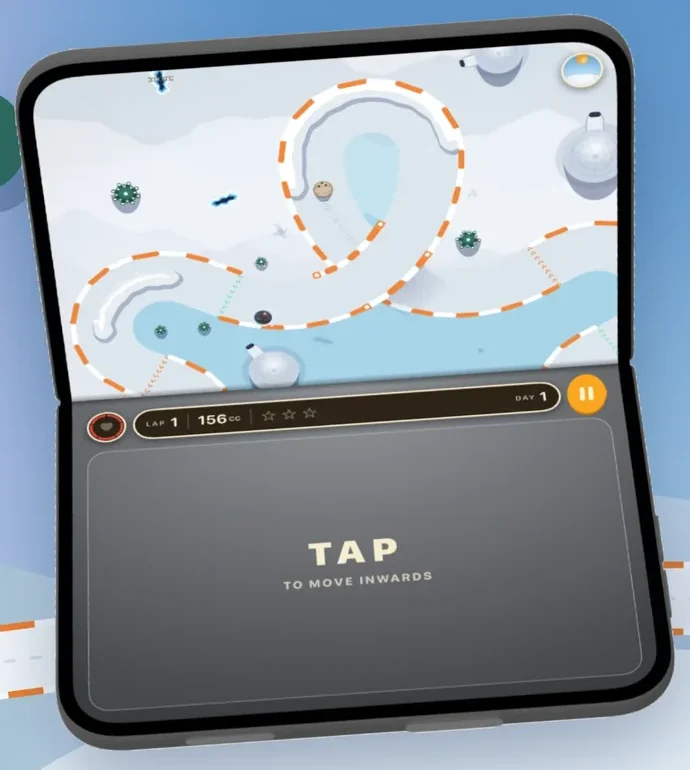
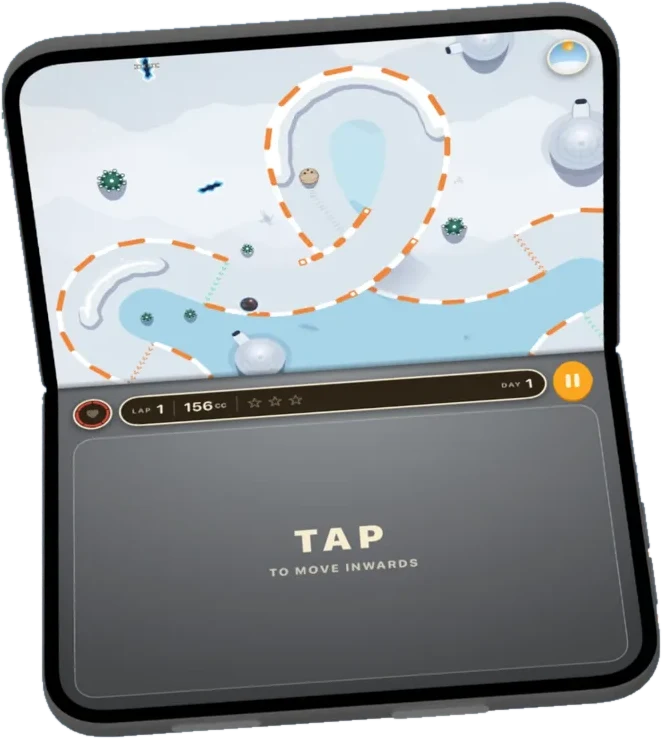
Home: seated-mode iPhone Duo cut out of its background
The half-folded phone now has a transparent background with a soft drop
shadow, so it sits on the page like the other phone photos.

Claude-Session: https://claude.ai/code/session_01GNHq18qJZdMw6r9VXJgPzF

diff --git a/animal-loop/index.html b/animal-loop/index.html
@@ -338,7 +338,7 @@
 
   /* devices: seated mode + facts */
   .seated { width: 100%; max-width: 900px; margin-top: 56px; display: grid; grid-template-columns: 300px 1fr; gap: 44px; align-items: center; }
-  .seated-shot { width: 100%; max-width: 300px; height: auto; display: block; border-radius: 28px; }
+  .seated-shot { width: 100%; max-width: 300px; height: auto; display: block; filter: drop-shadow(0 18px 24px rgba(43,31,77,0.22)); }
   .seated .txt { display: flex; flex-direction: column; gap: 12px; }
   .seated h3 { margin: 0; font-size: 28px; font-weight: 900; letter-spacing: -0.4px; }
   .seated p { margin: 0; font-size: 18px; line-height: 1.6; color: var(--body); }
@@ -720,7 +720,7 @@
     <figure class="open" style="--ar: 1.482"><img src="assets/duo-open-in-hands.webp" alt="Animal Loop's Coral Shallows trefoil track across the open iPhone Duo, held in two hands" width="1500" height="1012" loading="lazy"><figcaption class="cap">iPhone Duo, open</figcaption></figure>
   </div>
   <div class="seated">
-    <img class="seated-shot" src="assets/duo/seated.webp" width="690" height="770" alt="Animal Loop on a half-folded iPhone Duo in seated mode: the track on the top half, a big tap pad on the bottom half" loading="lazy">
+    <img class="seated-shot" src="assets/duo/seated.webp?v=2" width="662" height="739" alt="Animal Loop on a half-folded iPhone Duo in seated mode: the track on the top half, a big tap pad on the bottom half" loading="lazy">
     <div class="txt">
       <span class="kicker">iPhone Duo</span>
       <h3>Seated mode</h3>
